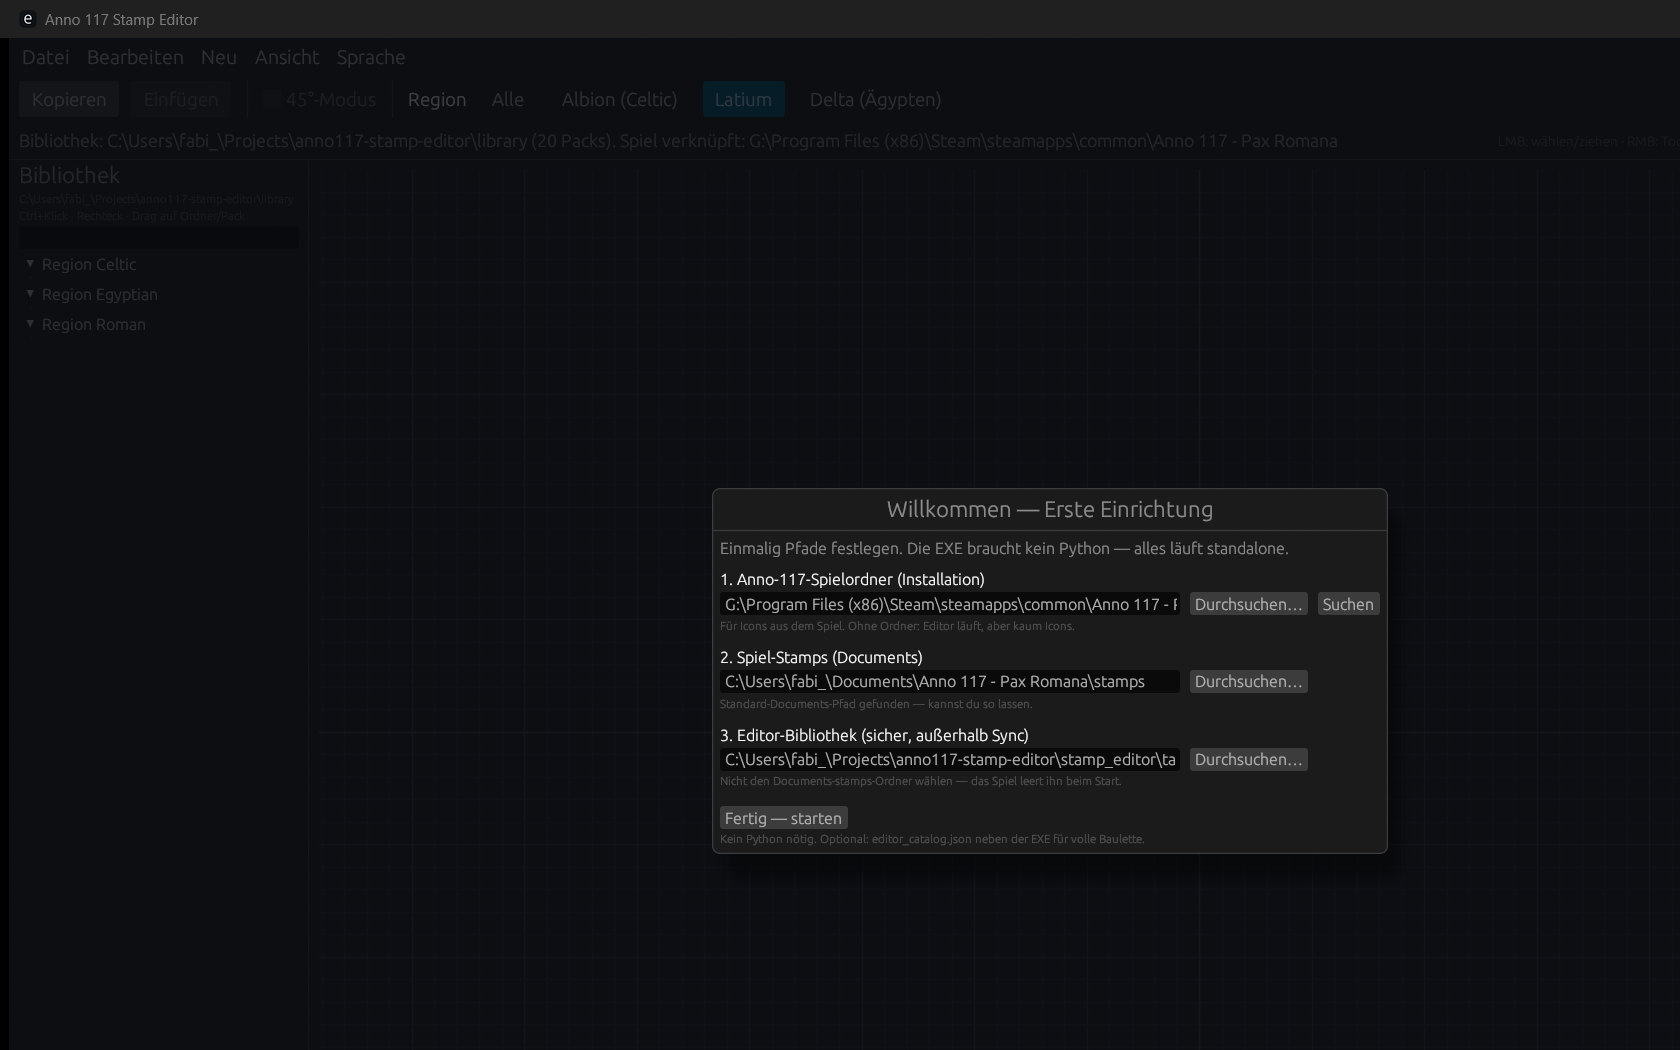
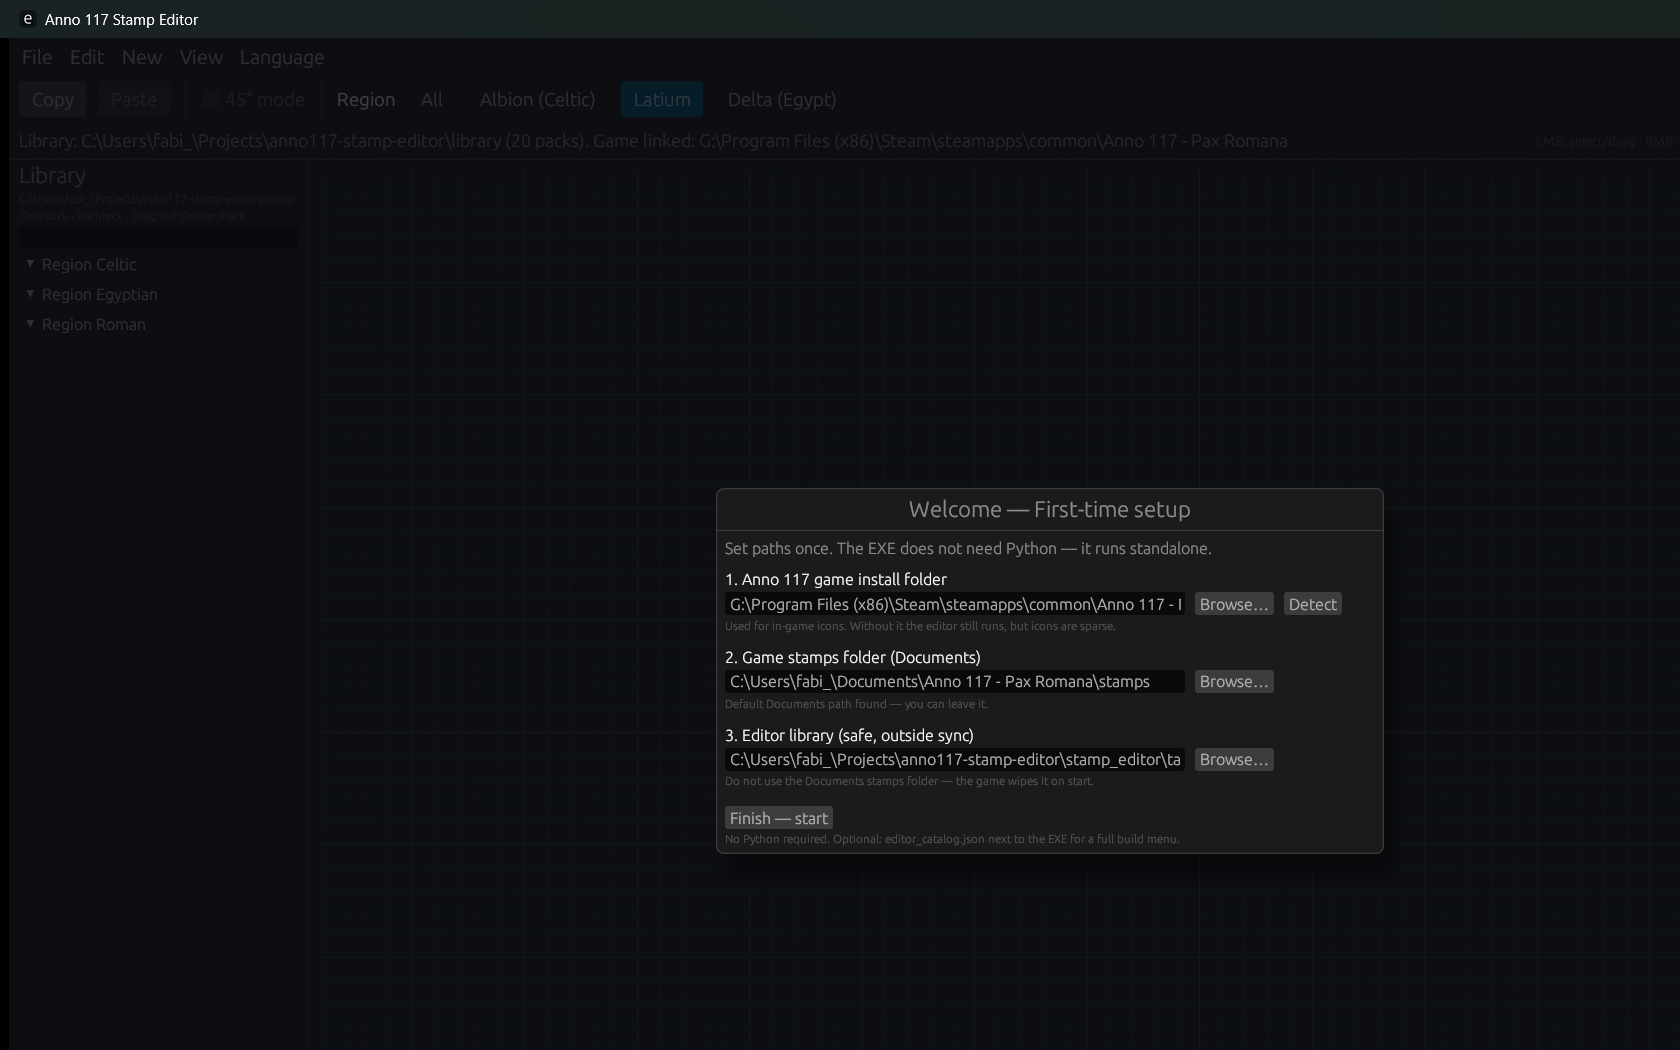
Docs: English README and retaken English UI screenshots.

diff --git a/README.md b/README.md
@@ -1,92 +1,92 @@
 # Anno 117 Stamp Editor
 
-Community-Tool (Rust / egui) zum **Öffnen, Bearbeiten und Speichern** von Anno-117-Stamp-Packs (Blueprints).
+Community tool (Rust / egui) to **open, edit, and save** Anno 117 stamp packs (blueprints).
 
-> **Kein offizielles Ubisoft-Produkt.** Anno 117, Marken, Spielassets und spielbezogene Inhalte gehören **Ubisoft** bzw. den Rechteinhabern. Der **Editor-Quellcode** in diesem Repo steht unter der **MIT-Lizenz** (siehe [`LICENSE`](LICENSE)) und darf entsprechend frei genutzt, verändert und weitergegeben werden. Details: [Rechtliches](#rechtliches--fair-play).
+> **Not an official Ubisoft product.** Anno 117, trademarks, game assets, and game-related content belong to **Ubisoft** / the respective rights holders. The **editor source code** in this repo is **MIT-licensed** (see [`LICENSE`](LICENSE)) and may be used, modified, and shared accordingly. Details: [Legal](#legal--fair-use).
 
 ---
 
 ## Screenshots
 
-### Erste Einrichtung (Setup)
+### First-time setup
 
-Beim ersten Start (oder über **Datei → Erste Einrichtung…**) legst du drei Pfade fest: Spielinstallation (Icons), Spiel-Stamps und die sichere Editor-Bibliothek.
+On first launch (or via **File → First-time setup…**) you set three paths: game install (icons), game stamps folder, and a safe editor library.
 
-![Erste Einrichtung](docs/screenshots/01-setup.png)
+![First-time setup](docs/screenshots/01-setup.png)
 
-### Hauptfenster
+### Main window
 
-Links die Bibliothek (Packs/Stamps), in der Mitte die Stamp-Canvas, rechts/unten Baulette und Analyse.
+Library on the left (packs/stamps), stamp canvas in the center, build menu / analysis along the bottom.
 
-![Hauptfenster](docs/screenshots/02-main.png)
+![Main window](docs/screenshots/02-main.png)
 
-### Menü Datei
+### File menu
 
-| Eintrag | Funktion |
-|--------|----------|
-| Erste Einrichtung… | Pfade erneut setzen (Spiel, Stamps, Bibliothek) |
-| Anno-Spielordner verknüpfen… | Installation für Icons |
-| Bibliothek-Ordner… | Sicheren Editor-Ordner wählen |
-| Vom Spiel importieren / Zum Spiel exportieren… | Sync zwischen Bibliothek und Documents-Stamps |
-| Auch in Spielordner speichern | Beim Speichern zusätzlich ins Spiel spiegeln |
-| Pack-Datei öffnen… / Speichern | Einzelnes Pack laden / speichern |
-| Katalog neu laden | `editor_catalog.json` neu einlesen |
+| Entry | What it does |
+|--------|----------------|
+| First-time setup… | Set paths again (game, stamps, library) |
+| Link Anno game folder… | Install folder for icons |
+| Library folder… | Choose the safe editor library |
+| Import from game / Export to game… | Sync between library and Documents stamps |
+| Also save into game folder | Mirror saves into the game stamps folder |
+| Open pack file… / Save | Load / save a pack |
+| Reload catalog | Re-read `editor_catalog.json` |
 
-![Menü Datei](docs/screenshots/03-menu-file.png)
-
----
-
-## Was kann der Editor?
-
-- Stamp-Packs (JSON + Pipette/FileDB) laden und speichern
-- Gebäude platzieren, verschieben, drehen, kopieren
-- Straßen & Aquädukte malen (inkl. Hochführung über Straßen)
-- Farmen / Felder (SubTileGrid), Coverage, Produktionsketten
-- Bibliothek außerhalb des Spiel-Sync-Ordners + Mirror ins Spiel
-- Residenz-Stufen **T1–T4** im Editor sichtbar (Hinweis: das Spiel speichert in Blueprints oft nur die Basis-GUID)
+![File menu](docs/screenshots/03-menu-file.png)
 
 ---
 
-## Schnellstart (Release-Binary)
+## Features
 
-1. Unter [Releases](https://github.com/Fabibassi/anno117-stamp-editor/releases) die Windows-ZIP laden
-2. `stamp_editor.exe` starten — **kein Python, keine Extra-Runtime** (standalone)
-3. Beim **ersten Start** öffnet sich die Einrichtung:
-   - Anno-Spielordner (Installation mit `maindata\ui.rda`) — für Icons
-   - Spiel-Stamps — oft schon `Documents\Anno 117 - Pax Romana\stamps` (wird erkannt, wenn vorhanden)
-   - Editor-Bibliothek — sicherer Ordner **außerhalb** des Sync-Ordners
-4. Später erneut: **Datei → Erste Einrichtung…**
-
-Optional für volle Baulette: `editor_catalog.json` neben die EXE legen (oder unter `_gamedata\`). Ohne Katalog startet der Editor trotzdem.
-
-### Windows SmartScreen („Windows hat den PC geschützt“)
-
-Die Release-EXE ist derzeit **nicht codesigniert**. Windows Defender SmartScreen kennt neue/unsignierte Community-Tools oft noch nicht und zeigt den blauen Hinweis.
-
-**So startest du trotzdem:**
-
-1. Auf **Weitere Informationen** klicken  
-2. Dann **Trotzdem ausführen**
-
-Das ist bei unsigned Open-Source-Downloads üblich und **kein** Nachweis für Malware. Quellcode liegt öffentlich auf GitHub; wer will, baut selbst mit `cargo build --release`. Eine kostenpflichtige Codesignatur (OV-Zertifikat) kann die Warnung mit der Zeit abmildern — sie ist für dieses Hobby-Projekt optional.
-
-**VirusTotal:** Release-Builds wurden vor dem Promote geprüft (0 Detections). Aktuelle SHA256 steht in den [Release-Notes](https://github.com/Fabibassi/anno117-stamp-editor/releases).
+- Load and save stamp packs (JSON + Pipette / FileDB)
+- Place, move, rotate, and copy buildings
+- Paint roads and aqueducts (including elevated spans over roads)
+- Farms / fields (SubTileGrid), coverage, production chains
+- Library outside the game sync folder + optional mirror into the game
+- Residence tiers **T1–T4** visible in the editor (note: in-game blueprints often store only the base GUID)
 
 ---
 
-## Bauen aus dem Quellcode
+## Quick start (release binary)
 
-Voraussetzungen: [Rust](https://rustup.rs/) (stable), Windows.
+1. Download the Windows ZIP from [Releases](https://github.com/Fabibassi/anno117-stamp-editor/releases)
+2. Run `stamp_editor.exe` — **no Python, no extra runtime** (standalone)
+3. On **first launch**, the setup wizard opens:
+   - Anno game folder (install with `maindata\ui.rda`) — for icons
+   - Game stamps — often `Documents\Anno 117 - Pax Romana\stamps` (auto-detected when present)
+   - Editor library — a safe folder **outside** the sync folder
+4. Later again: **File → First-time setup…**
+
+Optional for a full build menu: place `editor_catalog.json` next to the EXE (or under `_gamedata\`). The editor still starts without a catalog.
+
+### Windows SmartScreen (“Windows protected your PC”)
+
+The release EXE is currently **not code-signed**. SmartScreen often warns on new/unsigned community tools.
+
+**To run anyway:**
+
+1. Click **More info**
+2. Then **Run anyway**
+
+That is normal for unsigned open-source downloads and is **not** proof of malware. Source is public on GitHub; you can also build with `cargo build --release`. A paid code-signing certificate (OV) can soften the warning over time — optional for this hobby project.
+
+**VirusTotal:** Release builds were checked before promotion (0 detections). Current SHA256 is in the [release notes](https://github.com/Fabibassi/anno117-stamp-editor/releases).
+
+---
+
+## Build from source
+
+Requirements: [Rust](https://rustup.rs/) (stable), Windows.
 
 ```powershell
 cd stamp_editor
 cargo run --release
 ```
 
-Optional Pack direkt öffnen:
+Open a pack directly:
 
 ```powershell
-cargo run --release -- --open "C:\Pfad\zu\dein\stamp.json"
+cargo run --release -- --open "C:\path\to\your\stamp.json"
 ```
 
 Tests:
@@ -95,81 +95,87 @@ Tests:
 cargo test --release
 ```
 
-Legacy-Zisternen-Pos in Packs korrigieren:
+Fix legacy cistern positions in packs:
 
 ```powershell
-cargo run --release -- --fix-cisterns "C:\Pfad\zu\stamps"
+cargo run --release -- --fix-cisterns "C:\path\to\stamps"
 ```
 
-### Katalog & Icons (lokal)
-
-Abgeleitete Spieldaten gehören **nicht** auf GitHub (`_gamedata/` ist ignoriert).
+Clean release ZIP (strips local home paths from the binary):
 
 ```powershell
-# Beispiel — Pfade an deine Installation anpassen
+.\scripts\build-release.ps1
+```
+
+### Catalog & icons (local)
+
+Derived game data does **not** belong on GitHub (`_gamedata/` is ignored).
+
+```powershell
+# Example — adjust paths to your install
 python _tools\rebuild_editor_catalog.py
 ```
 
-Spiel-Stamps typischerweise unter:
+Game stamps are typically under:
 
 `Documents\Anno 117 - Pax Romana\stamps\`
 
 ---
 
-## Bedienung (Kurz)
+## Controls (short)
 
-| Aktion | Steuerung |
-|--------|-----------|
-| Bibliothek | Linke Leiste; speichern spiegelt optional ins Spiel |
-| Pan | Mausrad-Taste / RMB auf leerem Feld |
+| Action | Input |
+|--------|--------|
+| Library | Left panel; save can optionally mirror to the game |
+| Pan | Middle mouse / RMB on empty space |
 | Zoom | Scroll |
-| Platzieren | Gebäude wählen → LMB |
-| Verschieben | LMB ziehen |
-| Wege / Aquädukt | Straßen-Werkzeug / Aquädukt-Pinsel |
-| Land/Marsh | **V** (wo unterstützt, z. B. Lager) |
+| Place | Pick a building → LMB |
+| Move | LMB drag |
+| Roads / aqueduct | Road tool / aqueduct brush |
+| Land / marsh | **V** (where supported, e.g. warehouses) |
 
-Mehr Details: [`stamp_editor/README.md`](stamp_editor/README.md)
-
----
-
-## Hinweis zu Residenz-Stufen
-
-Anno 117 unterscheidet in vielen Blueprint-Dateien **nicht** zwischen Upgrade-Stufen — oft steht nur die T1-GUID (z. B. Liberti). Der Editor kann T1–T4 setzen und anzeigen; aus dem Spiel übernommene Stamps sind häufig alles T1.
+More detail: [`stamp_editor/README.md`](stamp_editor/README.md)
 
 ---
 
-## Über KI-Unterstützung beim Coden
+## Residence tiers
 
-Große Teile dieses Projekts entstanden **mit Hilfe von KI** (Cursor / Coding-Assistenten) und menschlicher Steuerung: Ziele setzen, prüfen, verwerfen, freigeben.
-
-### Bitte kein Drama wegen „AI-Code“
-
-- Das ist ein **Hobby-/Community-Tool**, kein Wettbewerb um Jobs oder Prestige.
-- **Niemand verliert etwas**, nur weil KI mitgeschrieben hat — und **niemand „gewinnt“** dadurch etwas von dir weg. Es entsteht nur ein Werkzeug, das vorher so nicht da war.
-- Wenn dich der Ansatz stört: fork, ignoriere es, oder schreibe deinen eigenen Editor. Beides ist okay.
-- Kritik an **Bugs und UX** ist willkommen. Moralische Entrüstung darüber, *wie* der Code entstanden ist, hilft niemandem weiter.
-
-Kurz: Code ist Code. Nützlich oder nicht — das entscheidet die Nutzung, nicht die Tastaturgeschichte.
+Anno 117 often does **not** distinguish upgrade tiers in blueprint files — many stamps only store the T1 GUID (e.g. Liberti). The editor can set and show T1–T4; stamps imported from the game are frequently all T1.
 
 ---
 
-## Rechtliches / Fair Play
+## About AI-assisted coding
 
-Zwei getrennte Dinge:
+Large parts of this project were built **with AI help** (Cursor / coding assistants) under human direction: set goals, review, reject, approve.
 
-1. **Spielbindung (Anno 117)** — Alle Rechte an *Anno 117 – Pax Romana*, zugehörigen Marken, Logos, Texturen, Sounds, Texten, GUIDs/Spieldaten und ähnlichen Inhalten liegen bei **Ubisoft** bzw. den jeweiligen Rechteinhabern. Dieses Projekt erhebt **keinen** Anspruch darauf und ist **kein** offizielles Ubisoft-Produkt.
-2. **Diese Software (Stamp Editor)** — Der Quellcode und die gebauten Binaries dieses Repos gehören dem Projektautor und stehen unter der **[MIT-Lizenz](LICENSE)**: Nutzung, Änderung, Fork und Weitergabe sind erlaubt, solange der License-Hinweis erhalten bleibt. Das betrifft **nur** den Editor — nicht Spielassets.
+### Please don’t start drama over “AI code”
 
-Zusätzlich:
+- This is a **hobby / community tool**, not a job contest.
+- **Nobody loses anything** because AI helped write it — and **nobody “takes” anything** from you. You only get a tool that did not exist before.
+- If you dislike the approach: fork it, ignore it, or write your own editor. All fine.
+- Feedback on **bugs and UX** is welcome. Moral outrage about *how* the code was written helps nobody.
 
-- Dieses Repo enthält **keine** entpackten UI-Texturen, keine `assets.xml` und keine abgeleiteten Katalog-JSONs (`_gamedata/` bleibt lokal).
-- Nutze den Editor nur mit Daten aus **deiner** legalen Spielinstallation.
-- Screenshots im Repo zeigen die Editor-UI; sichtbare Spiel-Icons/Assets unterliegen weiterhin den Rechten von Ubisoft.
+Short version: code is code. Useful or not is decided by use, not by the keyboard story.
 
 ---
 
-## Mitmachen
+## Legal / fair use
 
-Issues und PRs sind willkommen — Bugs, Ideen, Korrekturen. Siehe auch das Issue zur Projekt-/KI-Haltung im Repo.
+Two separate things:
+
+1. **Game connection (Anno 117)** — All rights to *Anno 117 – Pax Romana*, related trademarks, logos, textures, audio, text, GUIDs/game data, and similar content belong to **Ubisoft** / the respective rights holders. This project claims **no** ownership of those and is **not** an official Ubisoft product.
+2. **This software (Stamp Editor)** — Source and binaries in this repo belong to the project author and are under the **[MIT License](LICENSE)**: use, modify, fork, and redistribute are allowed if the license notice is preserved. That covers **only** the editor — not game assets.
+
+Also:
+
+- This repo contains **no** unpacked UI textures, no `assets.xml`, and no derived catalog JSONs (`_gamedata/` stays local).
+- Use the editor only with data from **your** legal game install.
+- Screenshots show the editor UI; any visible game icons/assets remain Ubisoft’s IP.
+
+---
+
+## Contributing
+
+Issues and PRs welcome — bugs, ideas, fixes. See also the project/AI stance issue in the repo.
 
 Changelog: [`CHANGELOG.md`](CHANGELOG.md)

diff --git a/stamp_editor/README.md b/stamp_editor/README.md
@@ -1,18 +1,18 @@
 # stamp_editor (crate)
 
-Rust/egui-Implementierung. **Projektübersicht, Release & KI-Hinweis:** siehe [../README.md](../README.md).
+Rust/egui implementation. **Project overview, release & AI note:** see [../README.md](../README.md).
 
-## Start
+## Run
 
 ```powershell
 cargo run --release
-# optional: Pack direkt öffnen
+# optional: open a pack directly
 cargo run --release -- --open "..\..\Documents\Anno 117 - Pax Romana\stamps\Region Roman\latium.json"
-# legacy Zisternen-Pos in allen Packs unter Ordner korrigieren + speichern
+# rewrite legacy cistern Pos under a folder and save
 cargo run --release -- --fix-cisterns "..\..\Documents\Anno 117 - Pax Romana\stamps"
 ```
 
-Katalog lokal unter `../_gamedata/editor_catalog.json` (nicht im Repo). Neu bauen:
+Local catalog at `../_gamedata/editor_catalog.json` (not in the repo). Rebuild:
 
 ```powershell
 python ..\_tools\rebuild_editor_catalog.py
@@ -26,14 +26,14 @@ cargo test --release
 
 Fixtures: `testdata/`.
 
-## Module (Kurz)
+## Modules (short)
 
-| Modul | Rolle |
-|-------|------|
+| Module | Role |
+|--------|------|
 | `filedb` | FileDB V3 |
-| `stamp` / `pack` | Pipette + Pack-JSON |
-| `catalog` | GUIDs, Größen, Needs, Tiers |
-| `meshgraph` | Straßen / Aquädukte |
-| `coverage` / `economy` / `needs` | Analyse |
-| `library` | Bibliothek + Mirror |
+| `stamp` / `pack` | Pipette + pack JSON |
+| `catalog` | GUIDs, sizes, needs, tiers |
+| `meshgraph` | Roads / aqueducts |
+| `coverage` / `economy` / `needs` | Analysis |
+| `library` | Library + mirror |
 | `app` | egui UI |

diff --git a/CHANGELOG.md b/CHANGELOG.md
@@ -4,6 +4,10 @@ All notable changes to the Anno 117 Stamp Editor are documented here.
 
 ## [0.2.2] — 2026-11-15
 
+### Changed
+
+- Public docs and screenshots switched to **English** (README, crate README, issue template)
+
 ### Fixed
 
 - Removed machine-specific `C:\Users\…` / Steam-drive hardcodes from editor sources, tools, and tests (portable `_gamedata` lookup only)
@@ -15,12 +19,12 @@ All notable changes to the Anno 117 Stamp Editor are documented here.
 
 - **First-run setup wizard**: choose game install (icons), game stamps folder, and editor library before anything else runs
 - Portable config next to the EXE (or `%LOCALAPPDATA%\Anno117StampEditor`) so a standalone ZIP works without Python
-- Menu entry **Datei → Erste Einrichtung…** to re-open the wizard
-- README screenshots (setup, Hauptfenster, Menü Datei) + clearer Ubisoft vs. MIT rights split
+- Menu entry **File → First-time setup…** to re-open the wizard
+- README screenshots (setup, main window, File menu) + clearer Ubisoft vs. MIT rights split
 
 ### Fixed
 
-- No auto-import of Documents stamps / library seed **before** setup is confirmed (empty library until „Fertig“)
+- No auto-import of Documents stamps / library seed **before** setup is confirmed (empty library until Finish)
 - Dimmed modal overlay so the wizard cannot be missed on first launch
 - Catalog path resolution for release EXE vs. local `_gamedata` without hardcoding one PC
 

diff --git a/.github/ISSUE_TEMPLATE/bug_report.md b/.github/ISSUE_TEMPLATE/bug_report.md
@@ -1,24 +1,24 @@
 ---
 name: Bug report
-about: Etwas funktioniert nicht wie erwartet
+about: Something does not work as expected
 title: "[Bug] "
 labels: bug
 ---
 
-**Was passiert?**
+**What happens?**
 
 
-**Was sollte passieren?**
+**What should happen?**
 
 
-**Schritte**
+**Steps**
 1.
 2.
 
-**Umgebung**
-- Editor-Version / Commit:
+**Environment**
+- Editor version / commit:
 - OS:
-- Stamp (falls möglich, ohne große Privat-Layouts):
+- Stamp (if possible, without large private layouts):
 
 **Screenshots**
 (optional)
